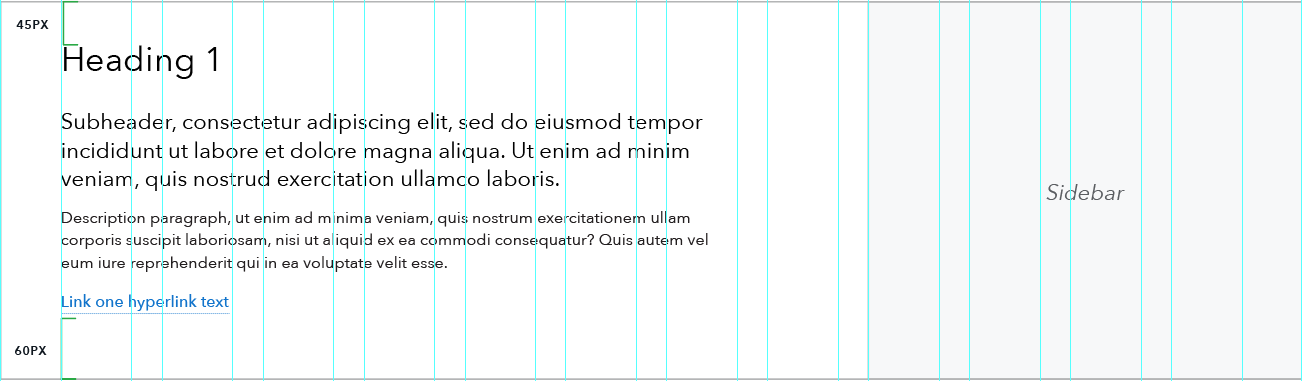
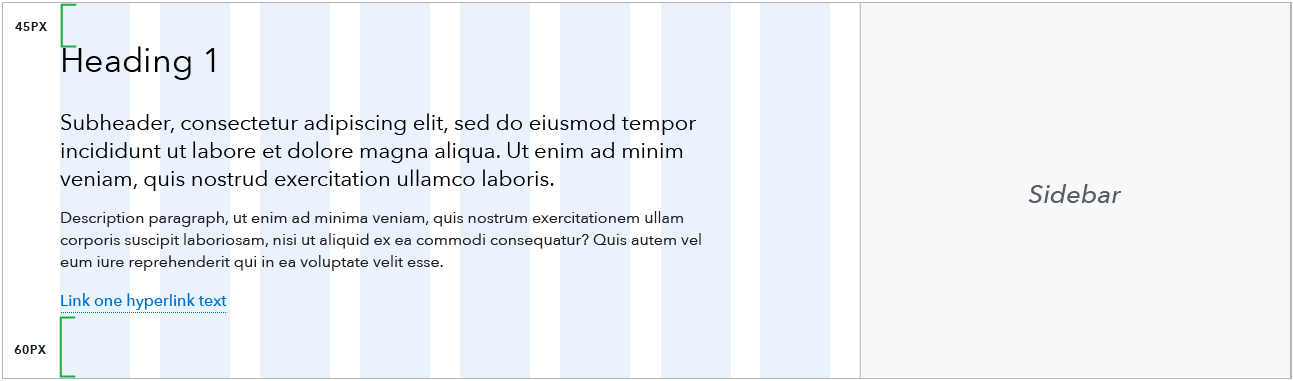
Update GitHub Pages

diff --git a/patterns/text-introductions.html b/patterns/text-introductions.html
@@ -402,6 +402,7 @@
   <li>Page title: Heading 1</li>
   <li>Subheader: Lead paragraph style</li>
   <li>Optional body paragraph and link: Avenir paragraph</li>
+  <li>Text spans seven columns</li>
   <li>At breakpoints below 600: Page title and lead paragraph drop down one type size to make reading on smaller devices easier.</li>
 </ul>
 
@@ -592,8 +593,8 @@
       <td>With standard grey-welled sidebar stacked to prefooter</td>
     </tr>
     <tr>
-      <td><img src="/design-system/images/uploads/text_introduction_above_900px_071620.png" alt="Mockup of 901 pixel and above layout"></td>
-      <td><img src="/design-system/images/uploads/text_introduction_below_901px_071620.png" alt="Mockup of 900 pixel and below layout"></td>
+      <td><img src="/design-system/images/uploads/text_introduction_above_900_071620.png" alt="Mockup of 901 pixel and above layout"></td>
+      <td><img src="/design-system/images/uploads/text_introduction_below_901_071620.png" alt="Mockup of 900 pixel and below layout"></td>
     </tr>
   </tbody>
 </table>
@@ -700,8 +701,8 @@
                 
                 
                 <a href="https://github.com/cfpb/design-system/commits/master/docs/pages/introductions.md">
-                    <time datetime="2020-07-16 15:32:14 -0400">
-                         3:32:14 PM Jul 16, 2020
+                    <time datetime="2020-07-16 15:59:42 -0400">
+                         3:59:42 PM Jul 16, 2020
                     </time>
                 </a>
             </small>

diff --git a/search/index.html b/search/index.html
@@ -240,7 +240,7 @@
             'title': 'Bar charts',
             'description': "Use bar or column charts to show comparisons of different discrete items, factors or categories. Comparisons could include items that can be counted and categorized. These are some of the easiest charts to interpret because the data is shown by length of bar.\n",
             'use_cases': "\n",
-            'guidelines': "\n  If exact numbers are important, the bars should be labeled with the value.\n  When possible label directly rather than relying on color.\n  For stacked charts, use a white line or stroke to create contrast between bar chunks.\n\n",
+            'guidelines': "\n  If exact numbers are important, the bars should be labeled with the value.\n  When possible label directly rather than relying on color.\n  For stacked charts, use a white line or stroke to create contrast between bar chunks.\n  For color guidance, view Data visualization palettes on the Color page.\n\n",
             'behavior': "\n",
             'accessibility': "\n",
             'research': "\n",

diff --git a/guidelines/bar-charts.html b/guidelines/bar-charts.html
@@ -433,6 +433,7 @@
   <li>If exact numbers are important, the bars should be labeled with the value.</li>
   <li>When possible label directly rather than relying on color.</li>
   <li>For stacked charts, use a white line or stroke to create contrast between bar chunks.</li>
+  <li>For color guidance, view <a href="https://cfpb.github.io/design-system/foundation/color#data-visualization-palettes">Data visualization palettes</a> on the Color page.</li>
 </ul>
 
                 
@@ -504,8 +505,8 @@
                 
                 
                 <a href="https://github.com/cfpb/design-system/commits/master/docs/pages/bar-charts.md">
-                    <time datetime="2020-07-09 16:47:49 -0400">
-                         4:47:49 PM Jul 09, 2020
+                    <time datetime="2020-07-16 16:27:58 -0400">
+                         4:27:58 PM Jul 16, 2020
                     </time>
                 </a>
             </small>
